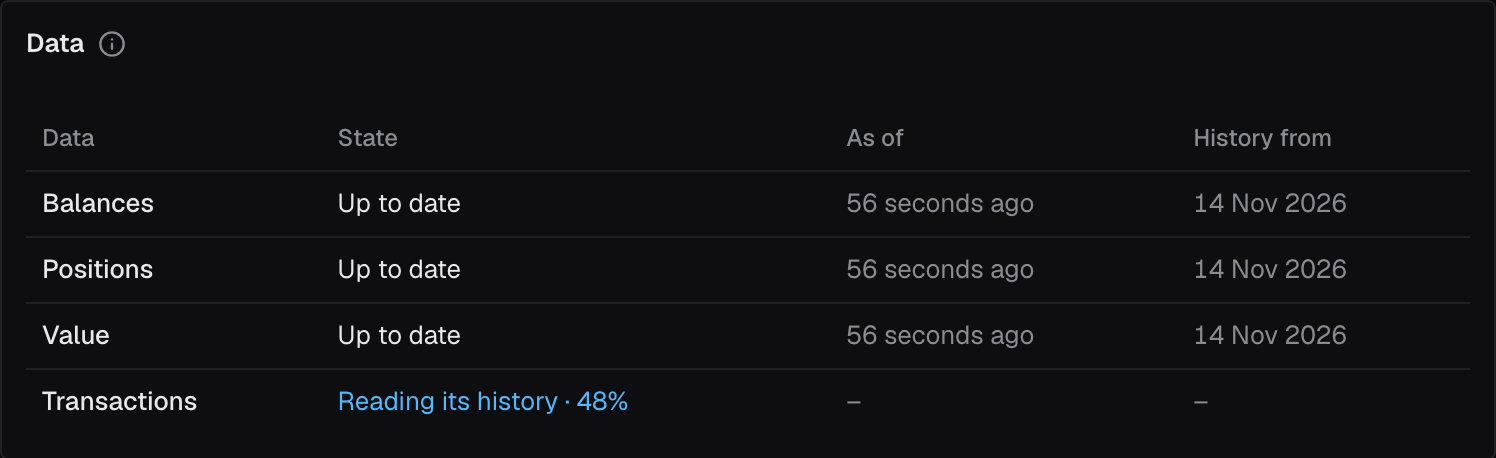
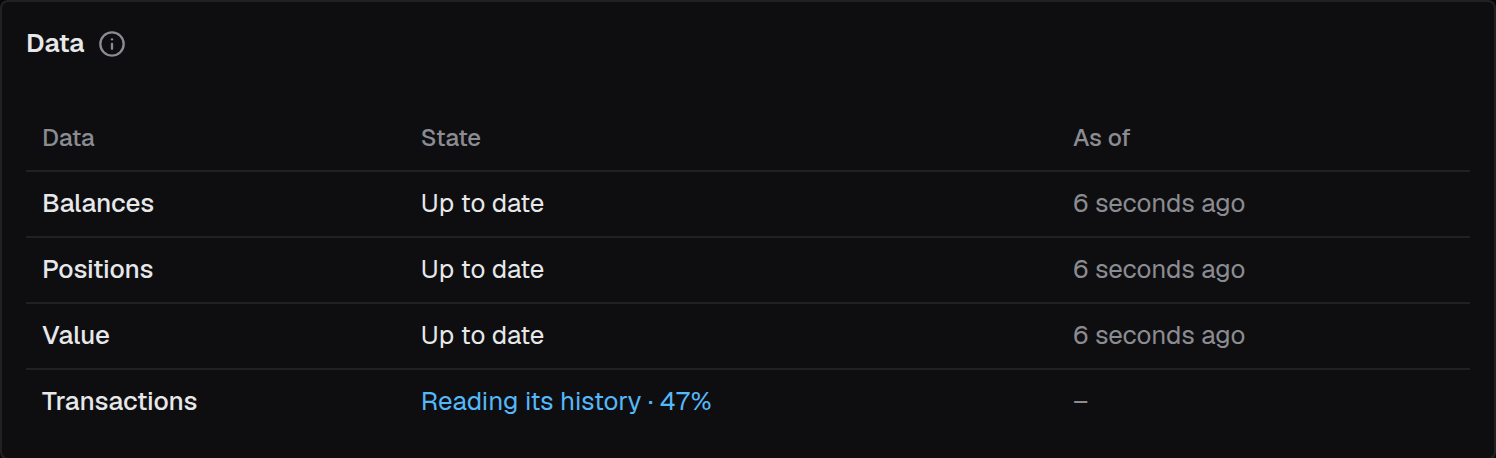
Docs: the Data panel no longer claims how far back history goes, a Hyperliquid connection shows two checks, and Name follows "How it trades" (MIS-210)
The console's Data card on a connection's Setup tab no longer has a "History from" column, and a Hyperliquid connection now shows the engine's two verification checks, so the concept page and the Hyperliquid connect page say and show that. On the add-an-agent pages the Name bullet moves below "How it trades", where the hosted console now puts the field.

Merge with the console release that carries MIS-210's console change.

diff --git a/docs/src/content/docs/concepts/what-mishmar-keeps-of-your-accounts.md b/docs/src/content/docs/concepts/what-mishmar-keeps-of-your-accounts.md
@@ -3,7 +3,7 @@ title: What Mishmar keeps of your accounts
 description: Mishmar reads every account you connect every minute, with or without an agent, and keeps its balances, positions, value over time and transactions, each trade marked with who placed it. How often, how far back, how long, who can read it and how every agent read is logged, and what happens while a free Mishmar account sleeps.
 sidebar:
   order: 2
-lastUpdated: 2026-11-17
+lastUpdated: 2026-11-18
 ---
 
 Once you connect an account ([on Hyperliquid](/hyperliquid/connect-an-account/) or [on Binance](/binance/connect-an-account/)), Mishmar reads it on its own and keeps what it reads. You see it in the console, on the account's page, and the agents you give the account read it with their Mishmar API key. None of it needs an agent or a trading key: Mishmar reads a Hyperliquid account by its address and a Binance account with a read-only key.
@@ -39,11 +39,11 @@ The positions here are the venue's, for the account as a whole. Each agent's own
 - Mishmar reads every account whose connection it has verified, whether or not an agent uses it, and whether trading on it is running, paused or stopped. An account stays **Pending**, and is not read, until its connection's checks pass.
 - On Binance it reads only while the read-only key can do nothing but read, which it checks every hour.
 
-Mishmar reads a connection's accounts together, so the connection's page says how current each kind is, under **Data** on its **Setup** tab: **Up to date**, **Catching up**, **Reading its history** (with how far it has got), or **Failing**, with the time it is as of and how far back its history goes. While reads of a kind fail, the connection's page and each of its accounts' pages say so at the top, with the reason.
+Mishmar reads a connection's accounts together, so the connection's page says how current each kind is, under **Data** on its **Setup** tab: **Up to date**, **Catching up**, **Reading its history** (with how far it has got), or **Failing**, with the time it is as of. While reads of a kind fail, the connection's page and each of its accounts' pages say so at the top, with the reason.
 
-![The Data panel on a connection's Setup tab: balances, positions, value and transactions each Up to date, with how long ago they were read and the date their history starts](/screens/concepts/what-mishmar-keeps-of-your-accounts/data.png)
+![The Data panel on a connection's Setup tab: balances, positions, value and transactions each Up to date, with how long ago they were read](/screens/concepts/what-mishmar-keeps-of-your-accounts/data.png)
 
-![The Data panel of a connection made a moment ago: balances, positions and value up to date, and transactions still Reading its history, 48% of the way](/screens/concepts/what-mishmar-keeps-of-your-accounts/data-reading-history.png)
+![The Data panel of a connection made a moment ago: balances, positions and value up to date, read seconds ago, and transactions still Reading its history, 47% of the way, with no time as of yet](/screens/concepts/what-mishmar-keeps-of-your-accounts/data-reading-history.png)
 
 ## How long it is kept
 

diff --git a/docs/src/content/docs/hyperliquid/connect-an-account.md b/docs/src/content/docs/hyperliquid/connect-an-account.md
@@ -60,11 +60,11 @@ From now on Mishmar reads both accounts every minute, whether or not an agent us
 ## Check it worked
 
 - **Connected accounts** lists the connection with its two accounts under it, **Perps** and **Spot**, each **Active**. The connection's row says **Verified** under **Status**, and the time of its last read under **Data**.
-- On the connection's page, under its **Setup** tab, **Setup** shows the **Master address** and the **Network**, **Verification** lists the two checks, both passed, and **Data** lists balances, positions, value and transactions as **Up to date**, each with how far back its history goes. **Connection**, beside them, says **Master account** under **Type** and **Its address** under **Reached with**.
+- On the connection's page, under its **Setup** tab, **Setup** shows the **Master address** and the **Network**, **Verification** lists the two checks, both passed, and **Data** lists balances, positions, value and transactions as **Up to date**, each with the time it is as of. **Connection**, beside them, says **Master account** under **Type** and **Its address** under **Reached with**.
 - Open an account from the connection's **Overview**, under **Accounts**. Its **Balances**, **Positions**, **Transactions** and **Value** tabs show what Mishmar read.
 - Copy the Perps account's **Id** (`ta_…`) from its **Overview**: an agent proposes orders to it, and reads it by it.
 
-![The connection's Setup tab: Setup with the master address and the network, Verification with its three checks passed, and Data with balances, positions, value and transactions up to date and the date each one's history starts](/screens/hyperliquid/connect-an-account/account-page.png)
+![The connection's Setup tab: Setup with the master address and the network, Verification with its two checks passed, Master account found on the network with the address and Network matches with testnet, and Data with balances, positions, value and transactions up to date, each with how long ago it was read](/screens/hyperliquid/connect-an-account/account-page.png)
 
 ## Who trades here
 

diff --git a/docs/src/content/docs/hyperliquid/add-an-agent.md b/docs/src/content/docs/hyperliquid/add-an-agent.md
@@ -33,9 +33,9 @@ Hyperliquid lets a master account approve up to three named API wallets, and eac
 
 In the console, open **Agents** and click **Add agent**. The dialog has four steps and moves on by itself as the agent and the venue do their part.
 
-- **Name**: what you call the agent everywhere in Mishmar.
 - **What it is for**: choose **Trade**. Nothing is picked until you choose.
 - Under **How it trades**, choose **A bot of your own**. The fields below appear after you choose.
+- **Name**: what you call the agent everywhere in Mishmar.
 - **Trades on**: the account the agent gets its trading key on. Pick your Hyperliquid **Perps** account if you connected it already (the only one there is is picked for you; accounts Mishmar only reads, such as Spot, are left out), or click **Connect an account**, which opens [the same steps as connecting one](/hyperliquid/connect-an-account/) without leaving the dialog and picks the Perps account when it is done.
 - **Capital (optional)**: the dollars you set aside for this agent, which its own leverage and drawdown rules are measured against. A number you set: no money is moved anywhere. Leave it empty if the agent will have no such rule; you can set it later. [Where rules apply](/start/where-rules-apply/) says how its rules sit beside those of the whole Mishmar account, the connection and the account.
 - **Description** (optional): what it trades and how.

diff --git a/docs/src/content/docs/binance/add-an-agent.md b/docs/src/content/docs/binance/add-an-agent.md
@@ -29,9 +29,9 @@ It takes about ten minutes.
 
 In the console, open **Agents** and click **Add agent**. The dialog has four steps and moves on by itself as the agent and the venue do their part.
 
-- **Name**: what you call the agent everywhere in Mishmar.
 - **What it is for**: choose **Trade**. Nothing is picked until you choose.
 - Under **How it trades**, choose **A bot of your own**. The fields below appear after you choose.
+- **Name**: what you call the agent everywhere in Mishmar.
 - **Trades on**: the account the agent gets its trading key on. Pick your Binance **USDⓈ-M Futures** account if you connected it already (the only one there is is picked for you; accounts Mishmar only reads, such as Spot, are left out), or click **Connect an account**, which opens [the same steps as connecting one](/binance/connect-an-account/) without leaving the dialog, read-only key included, and picks the USDⓈ-M Futures account when it is done.
 - **Capital (optional)**: the dollars you set aside for this agent, which its own leverage and drawdown rules are measured against. A number you set: no money is moved anywhere. Leave it empty if the agent will have no such rule; you can set it later. [Where rules apply](/start/where-rules-apply/) says how its rules sit beside those of the whole Mishmar account, the connection and the account.
 - **Description** (optional): what it trades and how.
